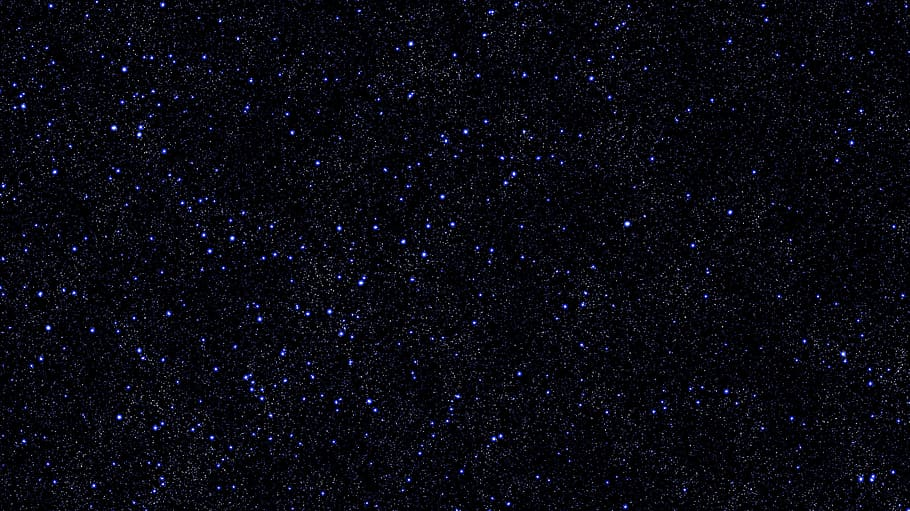
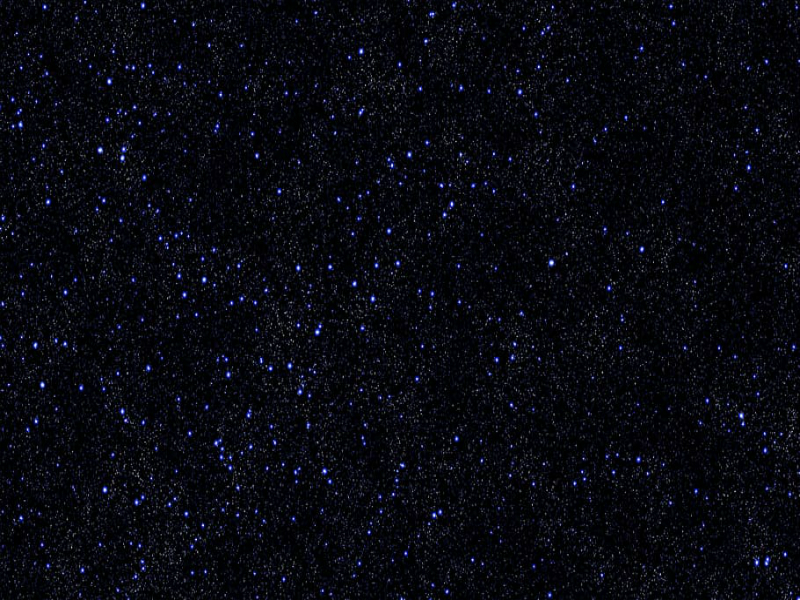
fix size of background

diff --git a/SaveTheSpace_start.rb b/SaveTheSpace_start.rb
@@ -28,7 +28,7 @@ class SaveTheSpace < Gosu::Window
 		@enemies = []
 		@bullets = []
 		@explosions = []
-		@fundoY = 0
+		@fundoY = 100
 		@font = Gosu::Font.new(20)
 		@scene = :game
 		@enemies_appeared = 0
@@ -85,7 +85,7 @@ class SaveTheSpace < Gosu::Window
 
 	def draw_game
 		@player.draw
-		@font.draw("Placar: #{@player.placar}",10, 10, 3, 1.5, 1.5, 0xffffff00)
+		@font.draw_text("Placar: #{@player.placar}",10, 10, 3, 1.5, 1.5, 0xffffff00)
 		@enemies.each do |enemy|
 			enemy.draw
 		end
@@ -96,7 +96,7 @@ class SaveTheSpace < Gosu::Window
 			explosion.draw
 		end
 		@imagem_fundo.draw(0,@fundoY,0)
-		@imagem_fundo.draw(0,@fundoY-511,0)
+		@imagem_fundo.draw(0,@fundoY-600,0)
 	end
 
 	def draw_end
@@ -131,7 +131,7 @@ class SaveTheSpace < Gosu::Window
 	end
 
 	def update_game
-		@fundoY = (@fundoY + 1) % 511
+		@fundoY = (@fundoY + 4) % 600
 
 			if button_down? Gosu::KbLeft or Gosu::button_down? Gosu::GpLeft
 		 		@player.turn_left
